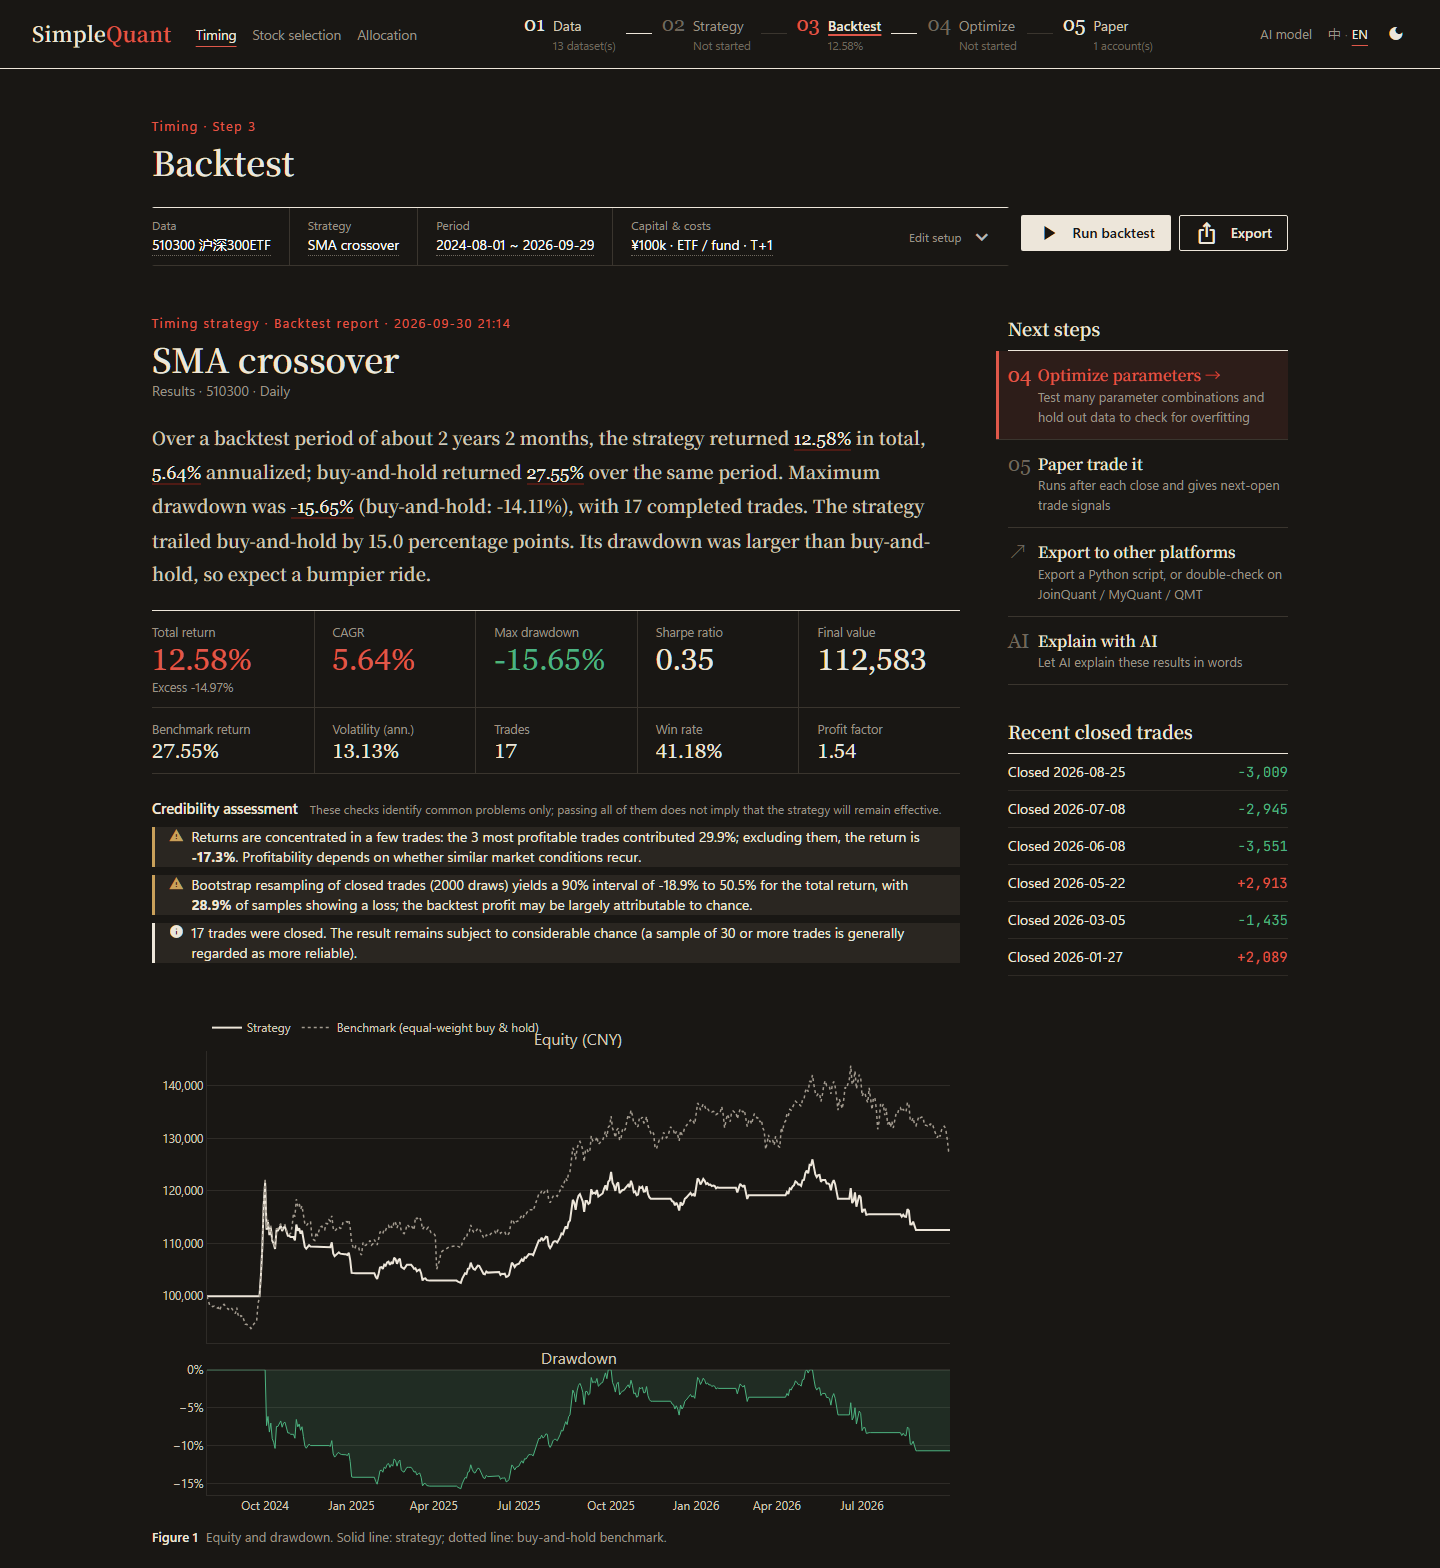
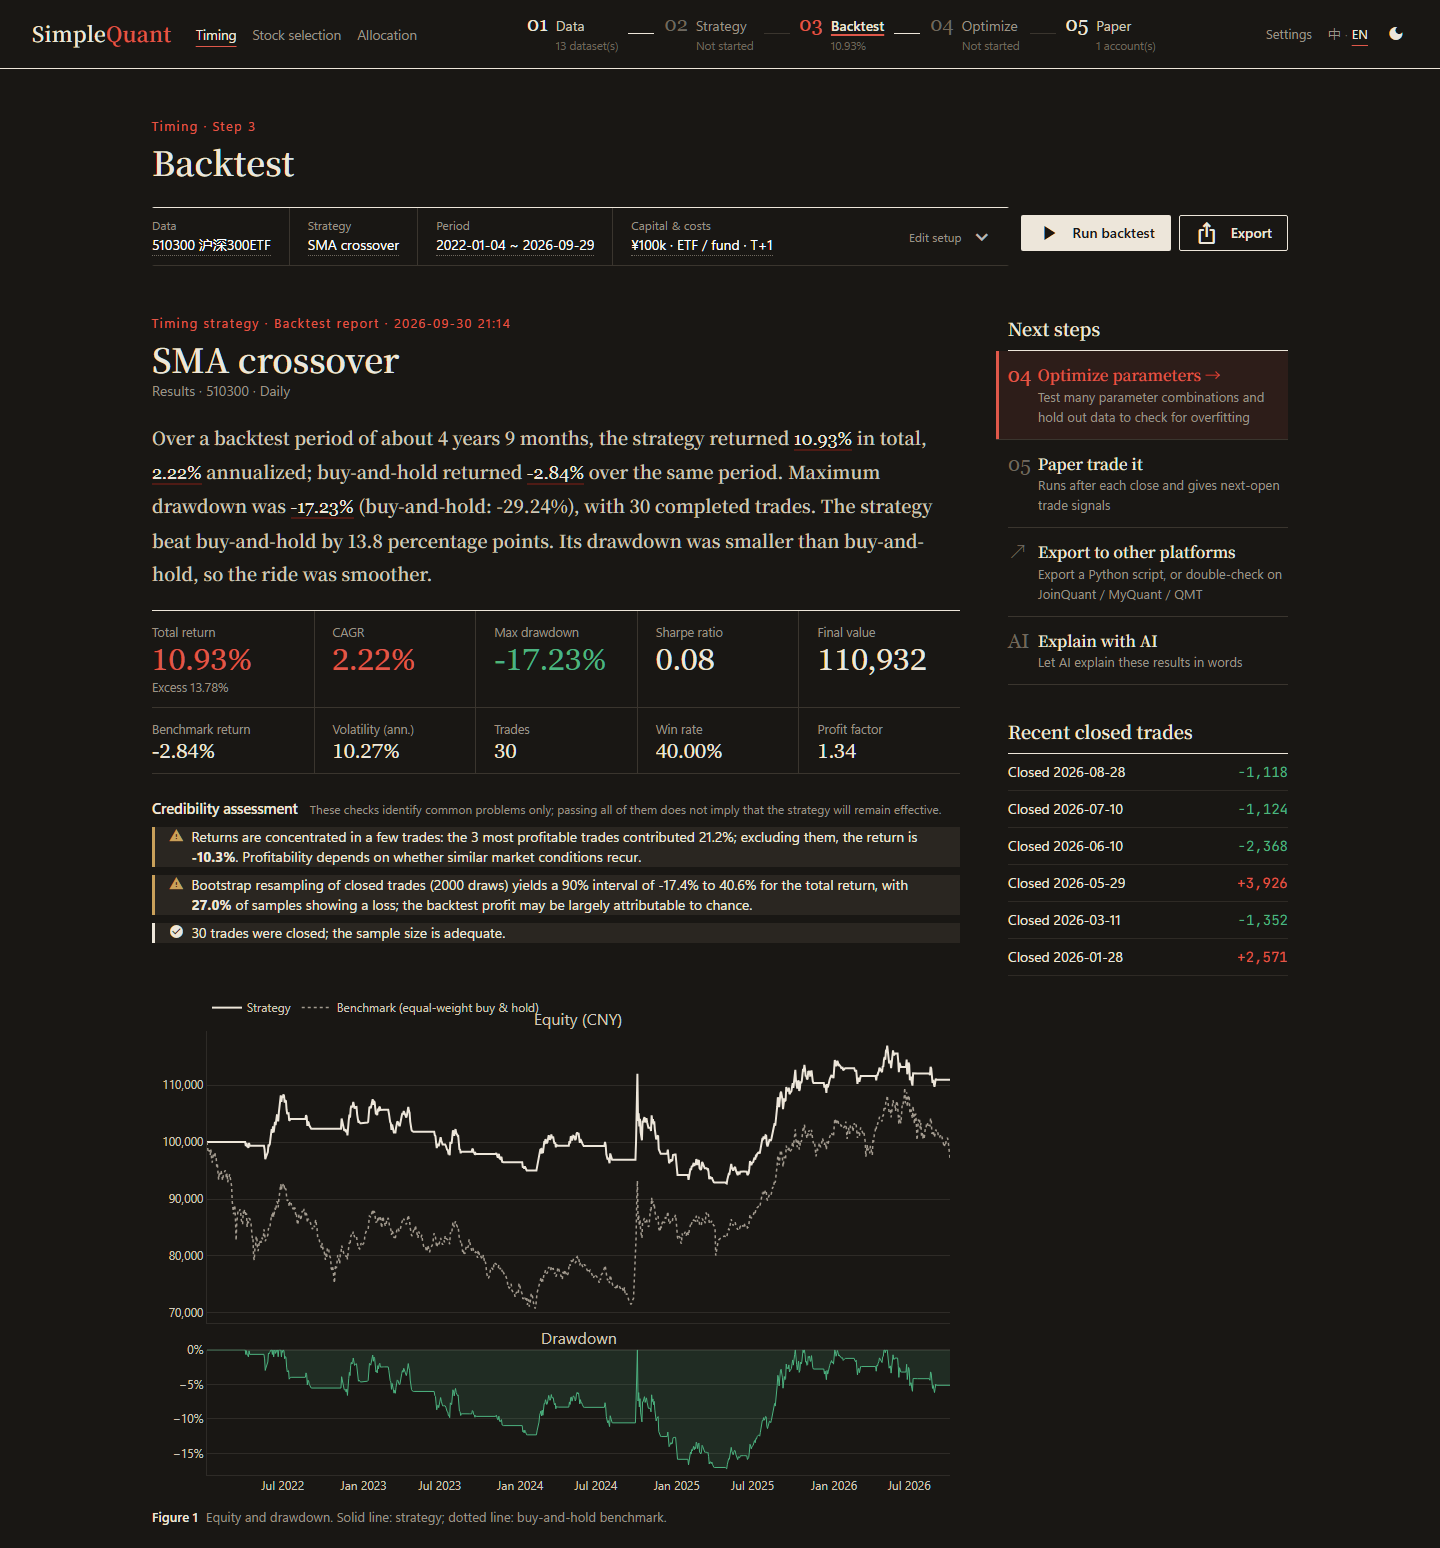
README 回测截图：双均线（10 / 20 日）2022-01-04 起跑赢买入持有；首页截图同步

diff --git a/tools/readme_server.py b/tools/readme_server.py
@@ -42,10 +42,10 @@ ID = next(m.id for m in sorted(library.list_datasets(), key=lambda m: m.end, rev
           if m.symbol == "510300" and m.source == "akshare" and m.freq == "1d" and m.adjust)
 DF = library.load(ID)
 
-# ---- 回测：双均线 ----
-rng = (dt.date(2024, 8, 1), dt.date(2026, 9, 29))
+# ---- 回测：双均线（10 / 20 日） ----
+rng = (dt.date(2022, 1, 4), dt.date(2026, 9, 29))     # 区间内买入持有略亏，双均线跑赢基准
 prices = shared.slice_prices({"510300": DF}, rng)
-spec = {"kind": "template", "template": "sma_cross", "params": {}}
+spec = {"kind": "template", "template": "sma_cross", "params": {"fast": 10, "slow": 20}}
 cls, params = strategies.resolve(spec)
 broker = BrokerConfig(cash=100000, commission=0.00005, min_commission=0, stamp_duty=0, slippage=0.0005)
 res = run_backtest(prices, cls, params, broker, with_panels=True)
@@ -114,7 +114,7 @@ def seed():
     history.add("sel", "沪深300 低估值 + 反转" if ZH else "CSI 300 value + reversal",
                 ("沪深300" if ZH else "CSI 300") + " · 2020-01-02 ~ 2026-09-28",
                 {"total_return": 0.216, "sharpe": 0.94}, data="沪深300" if ZH else "CSI 300", strategy="")
-    history.add("bt", name, "510300 · " + ("日线" if ZH else "Daily") + " · 2024-08-01 ~ 2026-09-29", res.metrics,
+    history.add("bt", name, "510300 · " + ("日线" if ZH else "Daily") + " · 2022-01-04 ~ 2026-09-29", res.metrics,
                 data="510300", strategy=name)
 
 
